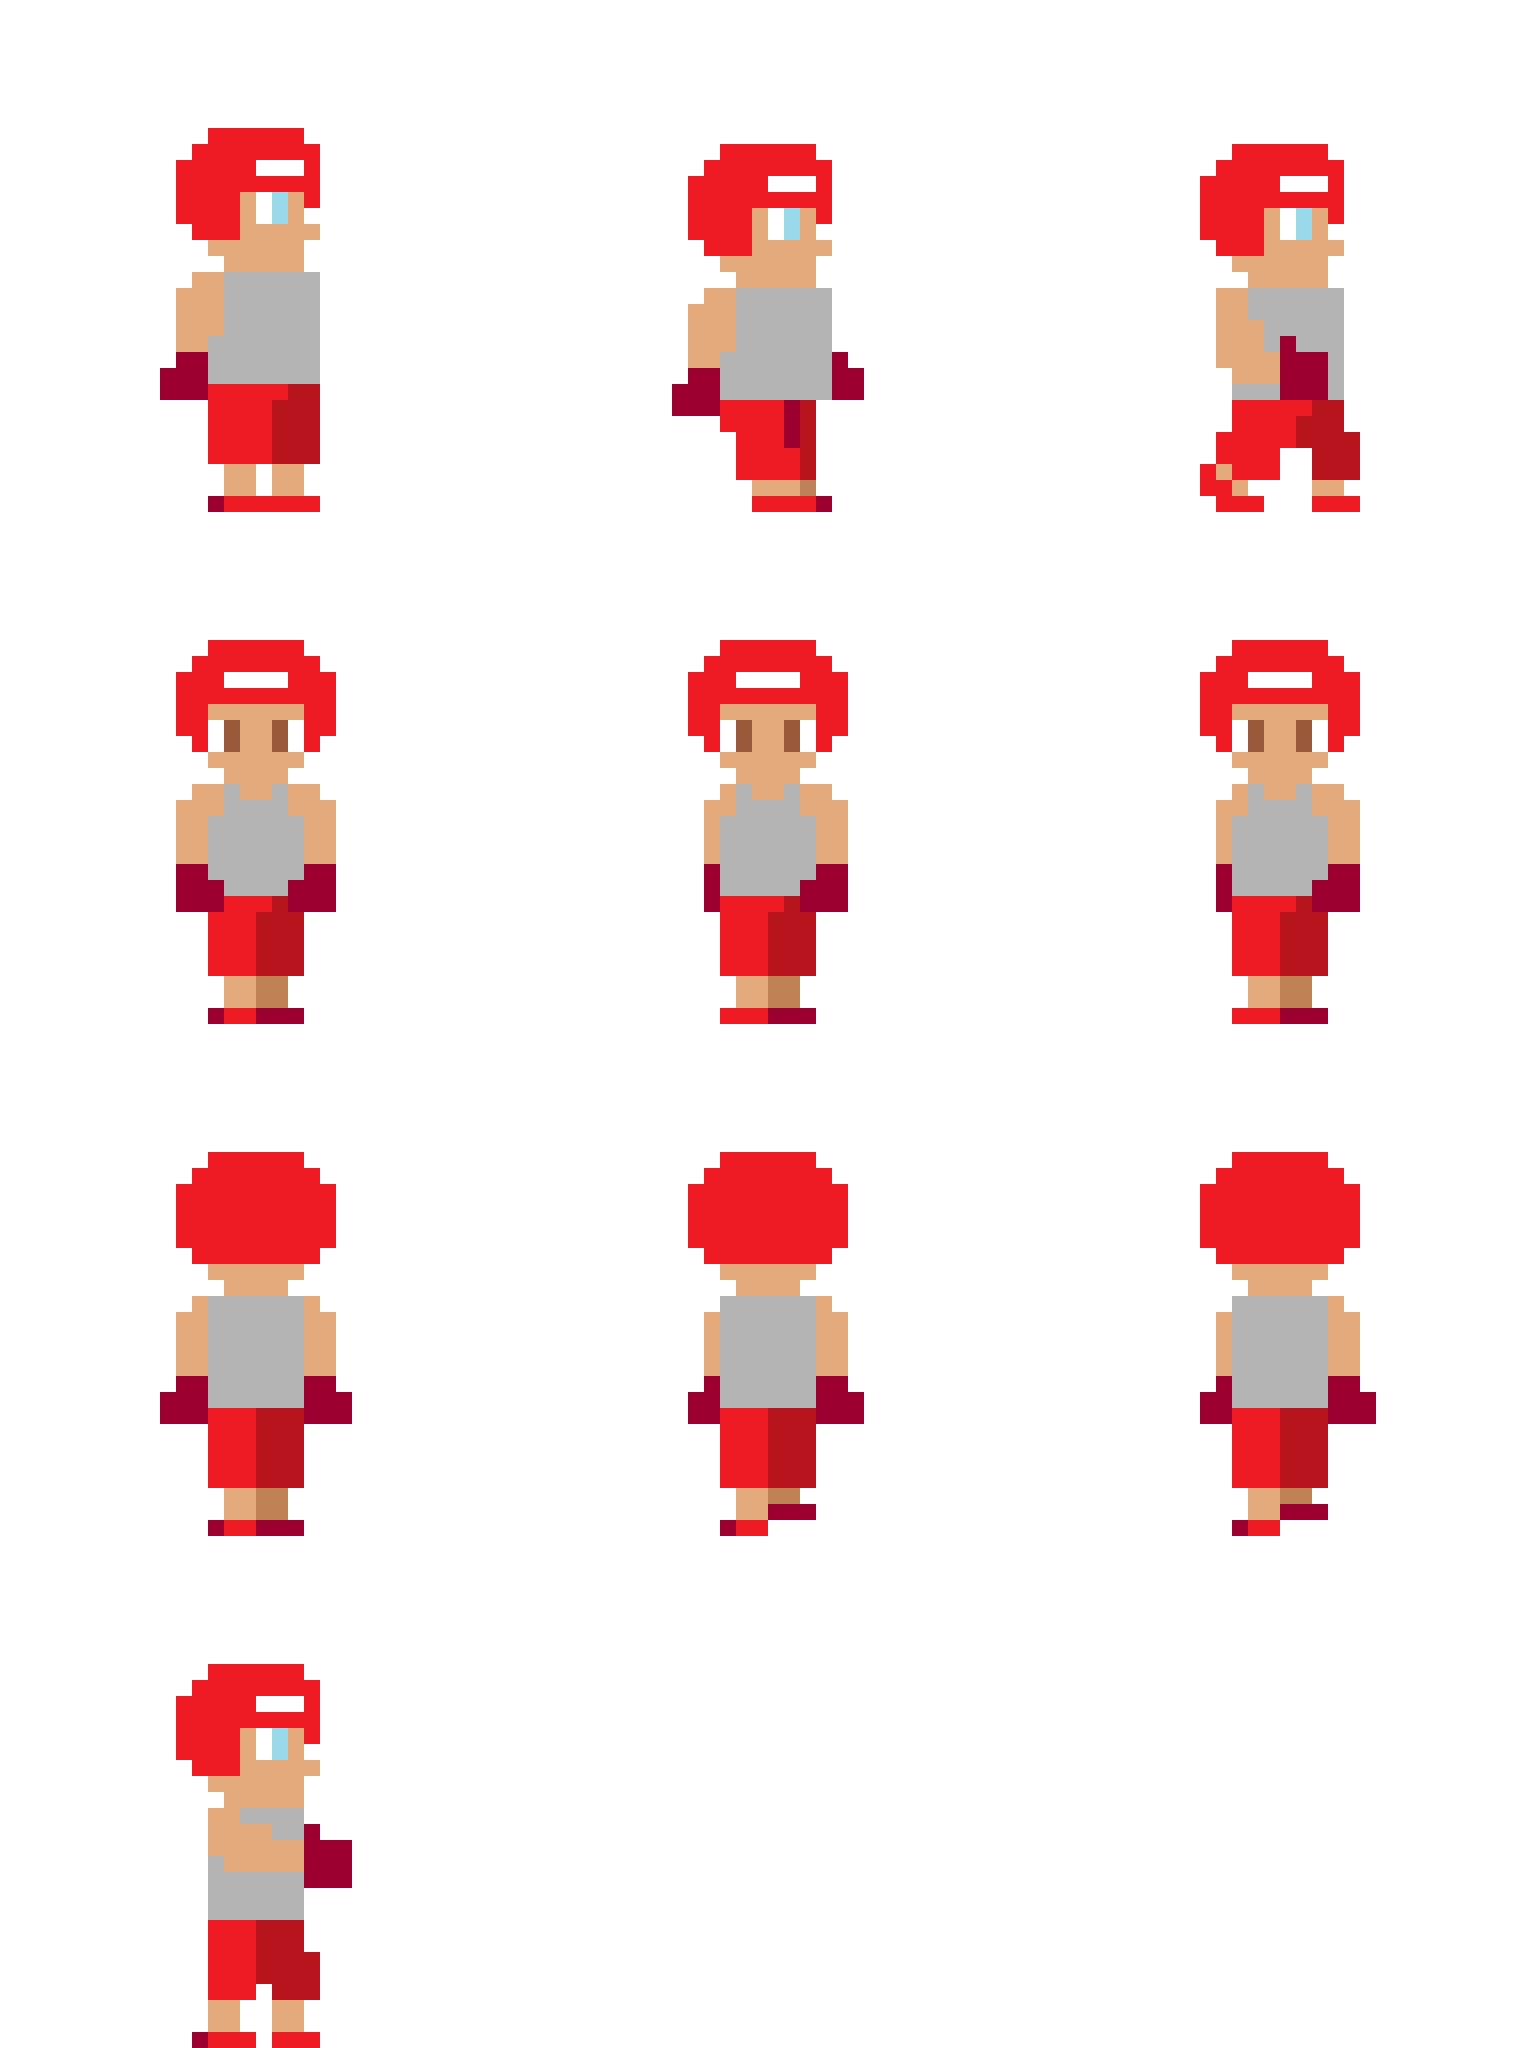
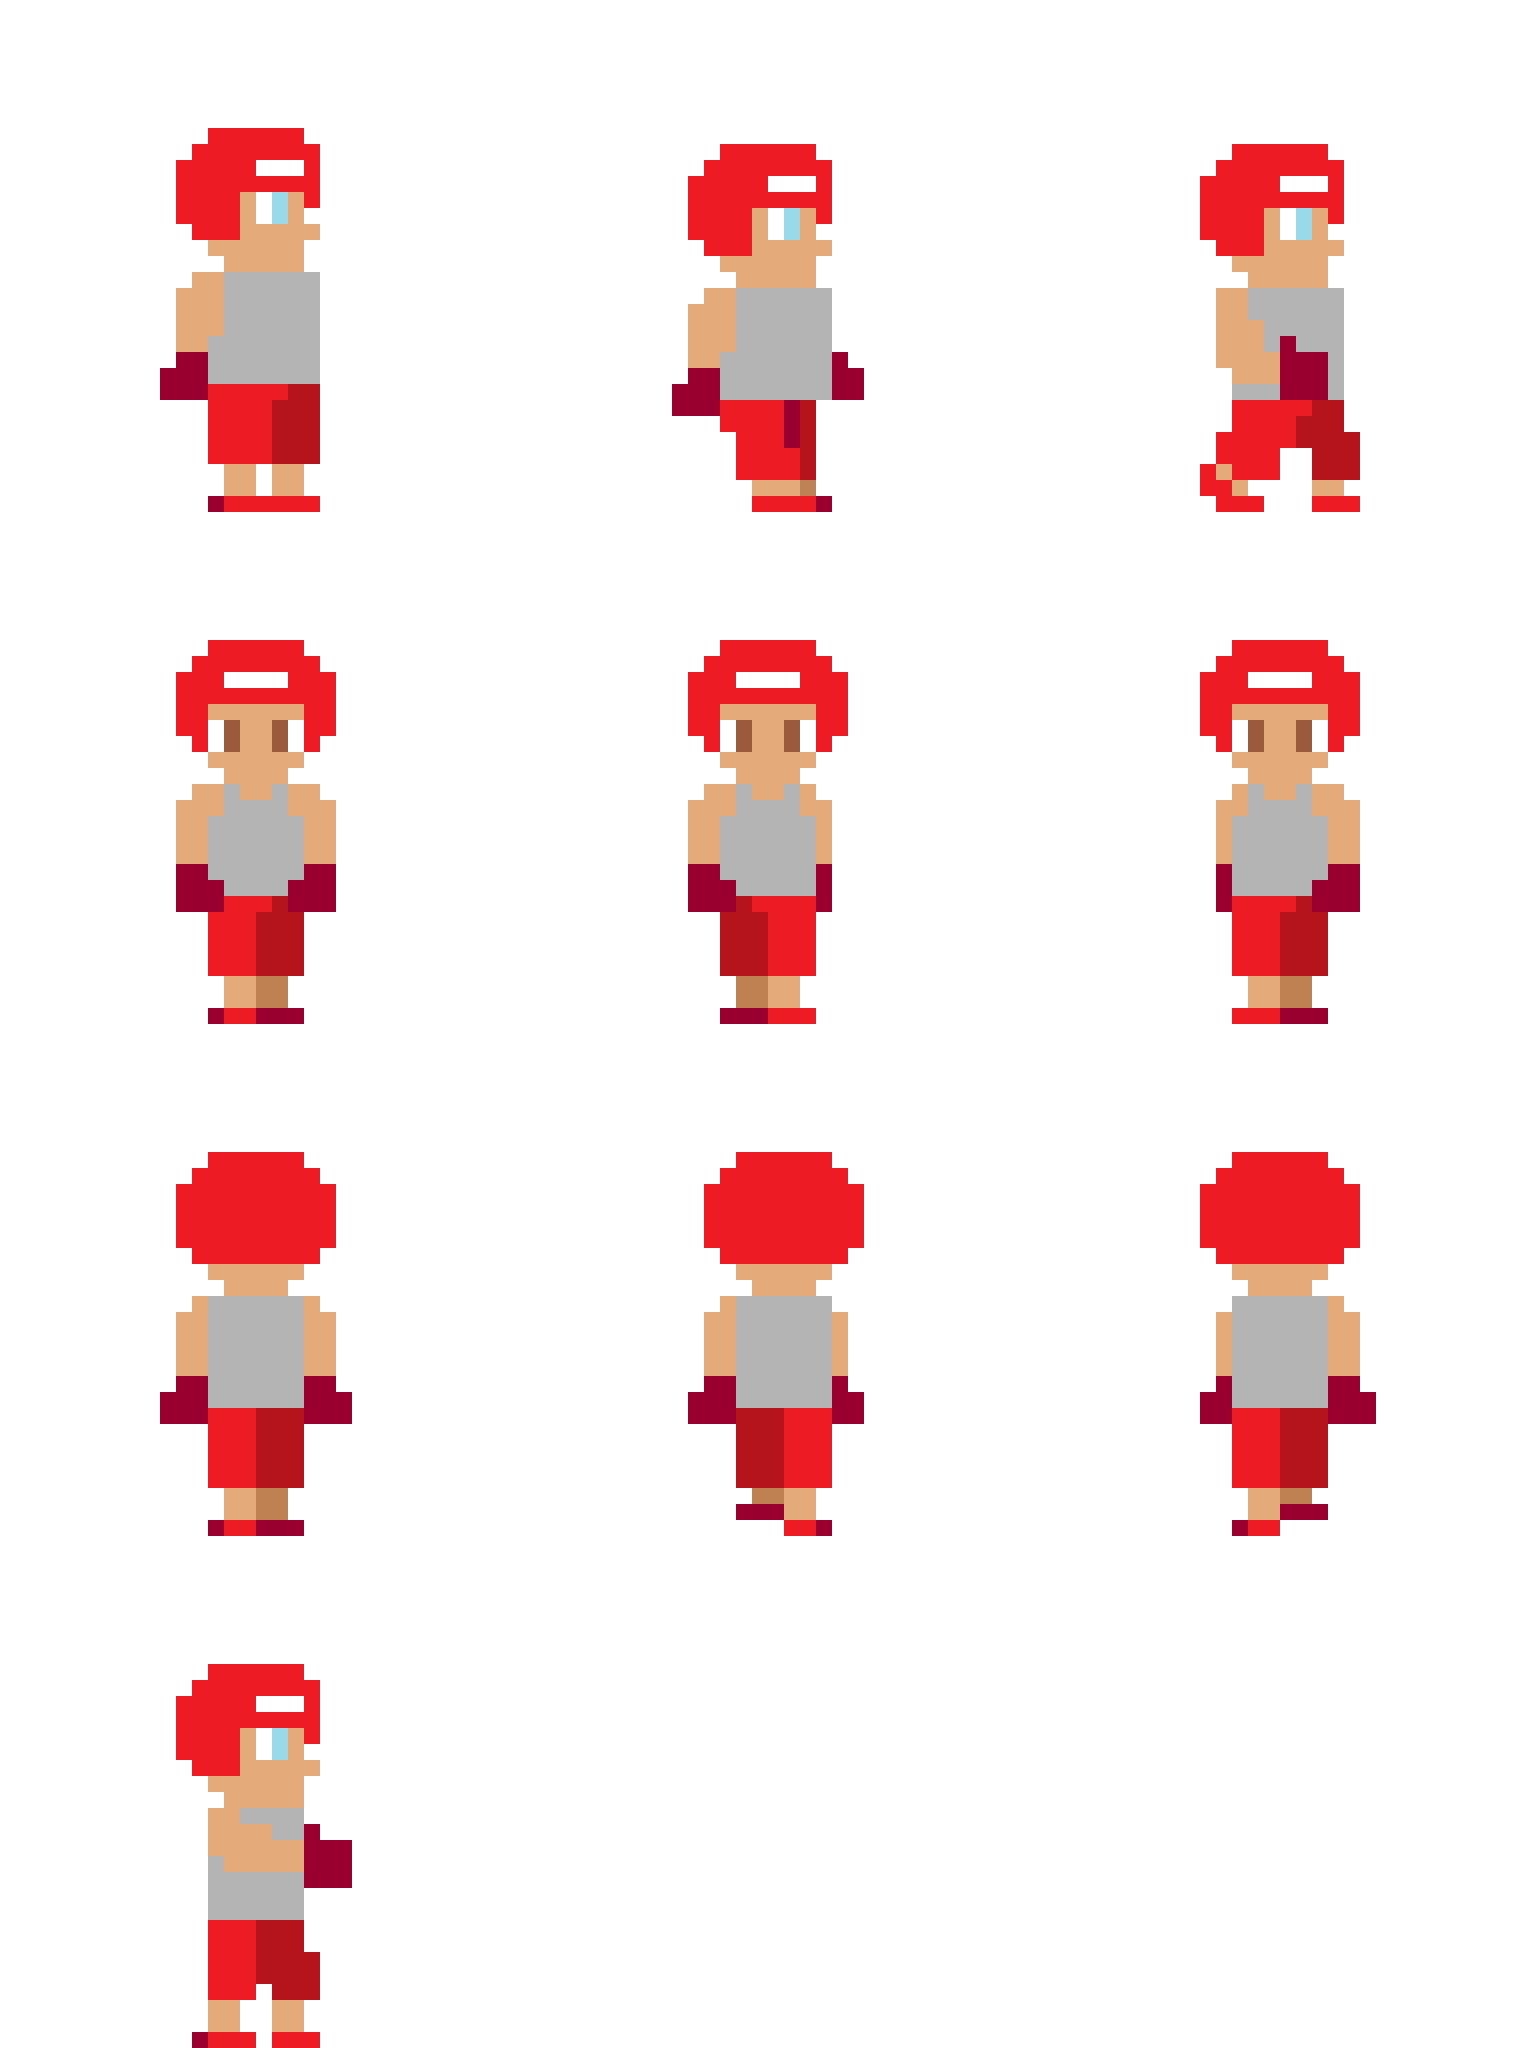
correccion foto boxeador y animacion andar

diff --git a/Archon1/src/MotorGrafico.cpp b/Archon1/src/MotorGrafico.cpp
@@ -178,17 +178,15 @@ void MotorGrafico::dibujarPersonaje(const Personaje& personaje)
 
 			int indexInicial = fila * 3; // 3 columnas en los spritesheets por fila
 			//por como estan puestas las imagenes de los sprites, tiene que ir de la columna 1 a la 2, a la 1 a la 3 y asi
+			int patronMovientoSprites[4] = {0, 1, 0, 2};
 
 			//  bucle de animacion
 			if (personaje.return_dirX() == 0 && personaje.return_dirY() == 0) {
-				SpriteActual->setState(indexInicial, true);
+				SpriteActual->setState(indexInicial, true); //no se mueve
 			}
 			else {
-				// Si está fuera de su fila lo devolvemos al inicio 
-				if (SpriteActual->getState() < indexInicial || SpriteActual->getState() >= indexInicial + 3) {
-					SpriteActual->setState(indexInicial, false);
-				}
-				SpriteActual->loop();
+				int fotoActual = (glutGet(GLUT_ELAPSED_TIME) / 150) % 4;
+				SpriteActual->setState(indexInicial + patronMovientoSprites[fotoActual]);
 			}
 			SpriteActual->draw(); 
 			break;
